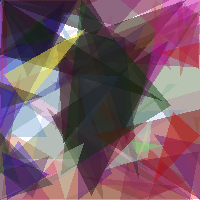
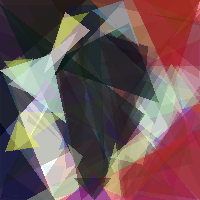
tuned a bunch of params, but mostly jsut number of offspring. meant the run took froever, getting clsoe to brute force, want to roll back bc thats not good. solve the rpoblem algorithmically

diff --git a/variants/evoart_variant10_before_parameter_tune_a.py b/variants/evoart_variant10_before_parameter_tune_a.py
@@ -229,7 +229,7 @@ def copy_solution(solution):
     return list(solution)
 
 
-def elite_individuals(population, fraction=0.1):
+def elite_individuals(population, fraction=0.2):
     count = max(1, round(len(population.individuals) * fraction))
     return sorted(population.individuals, key=lambda individual: individual.fitness, reverse=True)[:count]
 
@@ -237,7 +237,7 @@ def elite_individuals(population, fraction=0.1):
 def evolve(population, args):
     original_size = population.intended_size
     elites = elite_individuals(population)
-    offspring_count = original_size * 3
+    offspring_count = original_size
 
     for _ in range(offspring_count):
         parent = random.choice(elites)

diff --git a/variants/evoart_variant10_tune_a.py b/variants/evoart_variant10_tune_a.py
@@ -237,7 +237,7 @@ def elite_individuals(population, fraction=0.1):
 def evolve(population, args):
     original_size = population.intended_size
     elites = elite_individuals(population)
-    offspring_count = original_size * 3
+    offspring_count = original_size * 2
 
     for _ in range(offspring_count):
         parent = random.choice(elites)
